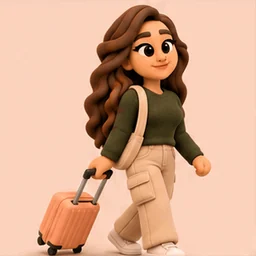
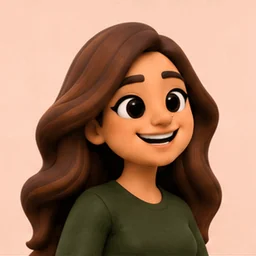
Redo walk and travel for dushy and ali in the shared head-to-mid-chest framing
Claude-Session: https://claude.ai/code/session_01M9MLSzTgGmRpDx4quWz9qx

diff --git a/design/gen/status.md b/design/gen/status.md
@@ -9,8 +9,8 @@ Generated in ChatGPT, checked frame by frame, converted to 256x256 animated WebP
 | dushy/out/laugh | done | 0 |  |
 | dushy/out/dance | done | 0 |  |
 | dushy/out/cheer | done | 0 |  |
-| dushy/out/walk | done, redo pending | 0 | first version full body; redo requested for the shared head-to-mid-chest framing |
-| dushy/out/travel | done, redo pending | 0 | first version full body; redo requested for the shared head-to-mid-chest framing |
+| dushy/out/walk | done | 1 | redo for shared framing (first version full body); beard grey at the chin a bit stronger than the sheet |
+| dushy/out/travel | done | 1 | redo for shared framing (first version full body) |
 | dushy/out/pack | pending | 0 |  |
 | dushy/out/rain | pending | 0 |  |
 | dushy/out/birthday | pending | 0 |  |
@@ -63,8 +63,8 @@ Generated in ChatGPT, checked frame by frame, converted to 256x256 animated WebP
 | ali/out/laugh | done | 0 | ChatGPT offered two versions; kept one |
 | ali/out/dance | done | 0 |  |
 | ali/out/cheer | done | 0 |  |
-| ali/out/walk | done, redo pending | 0 | first version full body; redo requested for the shared head-to-mid-chest framing |
-| ali/out/travel | done, redo pending | 0 | first version full body; redo requested for the shared head-to-mid-chest framing |
+| ali/out/walk | done | 1 | redo for shared framing (first version full body) |
+| ali/out/travel | done | 1 | redo for shared framing (first version full body) |
 | ali/out/pack | pending | 0 |  |
 | ali/out/rain | pending | 0 |  |
 | ali/out/birthday | pending | 0 |  |
